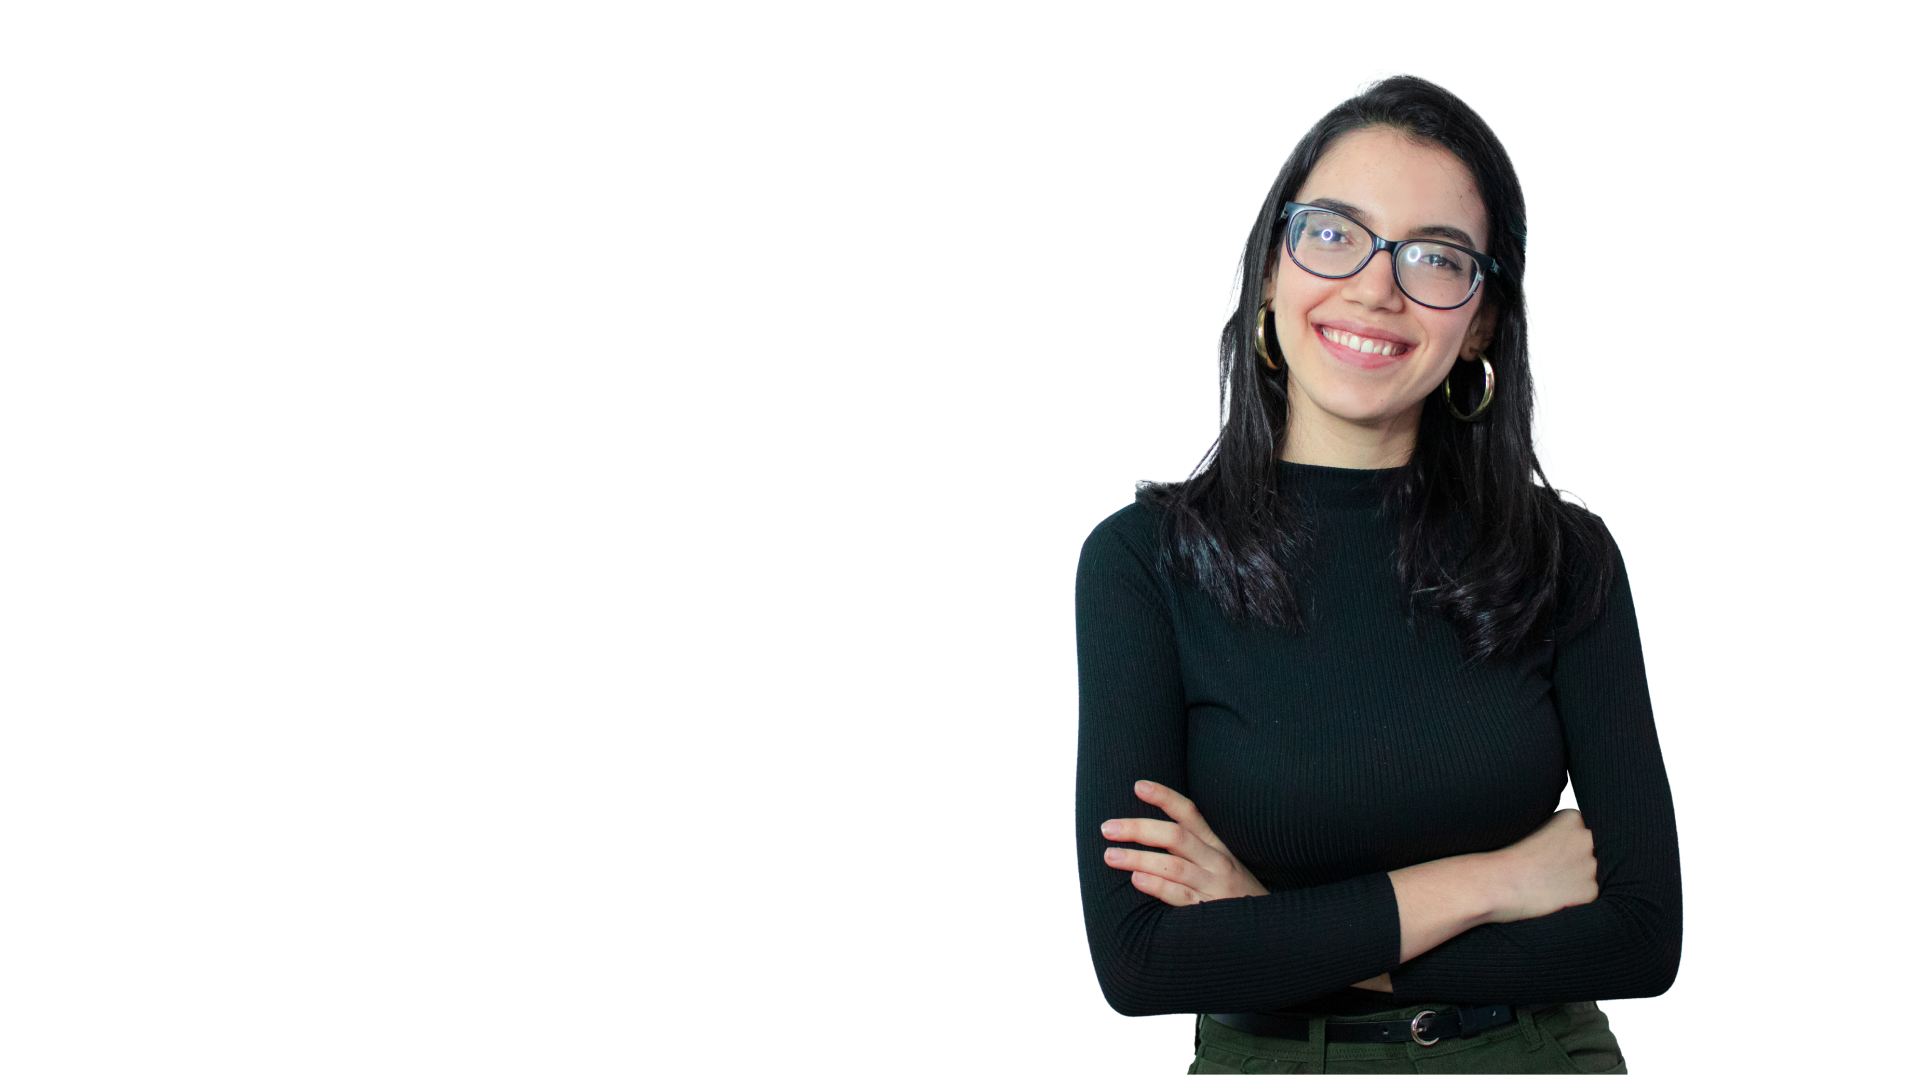
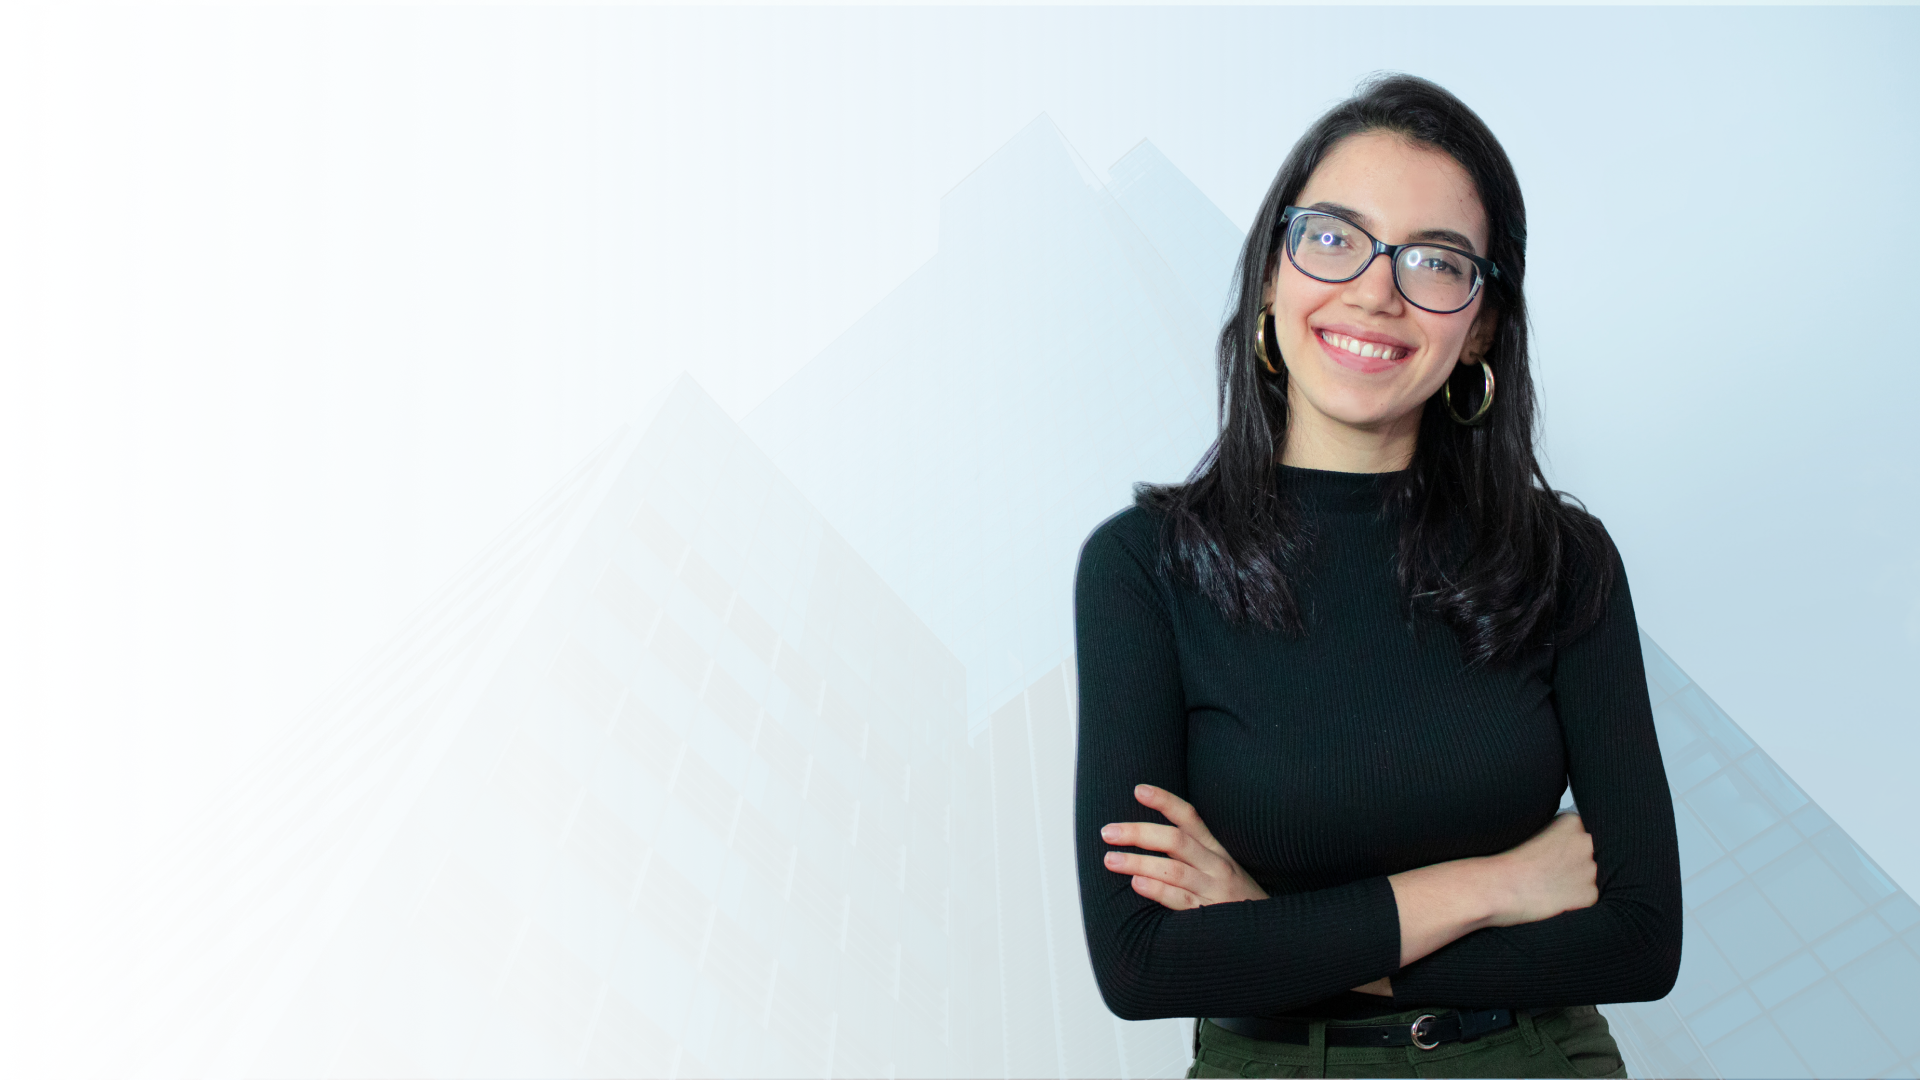
Add files via upload

diff --git a/index.html b/index.html
@@ -10,17 +10,17 @@
     <body>
         <div class="container-fluid">
             <div class="row justify-content-between call-to-action">
-                <div class="col col-xl-7 col-lg-9 align-self-center">
+                <div class="col col-12 col-xl-7 align-self-center p-5">
                     <p><span>Talk to one of</span> our representatives</p>
                 </div>
-                <div class="col align-self-center">
+                <div class="col align-self-center d-flex p-5 justify-content-end">
                     <button class="btn jus light-btn" type="button">Chat now</button>
                 </div>
             </div>                
         </div>
         <nav class="navbar navbar-expand-xl">
             <div class="container-fluid">
-                <div class="row justify-content-between">
+                <div class="row d-flex justify-content-between">
                     <div class="col col-xl-3 col-sm-8 align-self-center">
                         <a class="navbar-brand" href="#"><img class="logo" src="img/IW Logo.png" alt="InteractiveWorkers's Logo"></a>
                     </div>
@@ -29,7 +29,7 @@
                             <span class="navbar-toggler-icon"></span>
                         </button>
                         <div class="collapse navbar-collapse" id="navbarSupportedContent">
-                            <ul class="navbar-nav d-flex justify-content-end align-items-center">
+                            <ul class="navbar-nav">
                                 <li class="nav-item">
                                     <a class="nav-link" aria-current="page" href="#">How it works</a>
                                 </li>
@@ -51,23 +51,23 @@
                 </div>
         </nav>
         <div class="container-fluid main-banner">
-            <img class="img-fluid bg-img"src="img/main-banner.png" alt="Main banner for InteractiveWorkers">
-            <div class="row justify-content-start">
-                <p><span>InteractiveWorkers:</span><br>General Virtual Assistant.</p>
+            <img srcset="img/main-banner-mobile.png 480w, img/main-banner-1440.png 1440w, img/main-banner-1080.png 1920w"
+            size="(max-width: 600px) 480px, (max-width: 1440px) 1440px, 1920px"
+            class="img-fluid bg-img"
+            src="img/main-banner-1440.png" alt="Main banner for InteractiveWorkers">
+            <div class="row position-relative justify-content-start">
+                <div class="col">
+                    <p><span class="fw-bolder">InteractiveWorkers:</span><br>General Virtual Assistant.</p>
+                    <p>Reduce your workload. Increase your productivity. Save operational costs.</p>
+                    <button class="btn red-btn" type="button">Try a Virtual Assistant</button>
+                </div>
             </div>
-            <div class="row">
-                <p>Reduce your workload. Increase your productivity. Save operational costs.</p>
-            </div>
-            <div class="row">
-                <button class="btn red-btn" type="button">Try a Virtual Assistant</button>
-            </div>
-        </div>
         <div class="container-fluid red-banner">
             <div class="row text-center">
                 <h2>how it works</h2>
             </div>
             <div class="row">
-                <div class="col-9 col-xl-4 align-self-center text-center">
+                <div class="col col-12 col-xl-3 align-self-center text-center">
                     <img class="img-fluid" src="img/cooperate-vector.png" alt="Cooperate">
                     <h3>1. COOPERATE</h3>
                     <p>We talk about your remote personnel needs.</p>
@@ -118,15 +118,16 @@
         </div>
         <div class="container-fluid">
             <div class="row justify-content-between call-to-action">
-                <div class="col align-self-center">
+                <div class="col col-12 col-xl-7 align-self-center p-5">
                     <p><span>Talk to one of</span> our representatives</p>
                 </div>
-                <div class="col align-self-center">
+                <div class="col align-self-center d-flex p-5 justify-content-end">
                     <button class="btn jus light-btn" type="button">Chat now</button>
                 </div>
             </div>                
         </div>
         <div class="container-fluid">
+            <div class="footer-bg">
             <div class="row d-flex justify-content-between footer">
                 <div class="col-3">
                     <img src="img/iw-white-logo.png" alt="" class="img-fluid">
@@ -155,6 +156,7 @@
                     </div>
                 </div>
             </div>
+        </div>
         </div>
         <script src="https://cdn.jsdelivr.net/npm/bootstrap@5.3.0/dist/js/bootstrap.bundle.min.js" integrity="sha384-geWF76RCwLtnZ8qwWowPQNguL3RmwHVBC9FhGdlKrxdiJJigb/j/68SIy3Te4Bkz" crossorigin="anonymous"></script>
     </body>

diff --git a/css/stylesheet.css b/css/stylesheet.css
@@ -76,4 +76,15 @@ body {
 
 .footer {
     background-image: url(../img/buildings.png);
+    color: #FFF;
+}
+
+.footer-bg {
+    width: 100%;
+    height: auto;
+    background-color: rgba(23, 22, 32, 1);
+}
+
+.main-banner {
+    min-height: 100%;
 }
